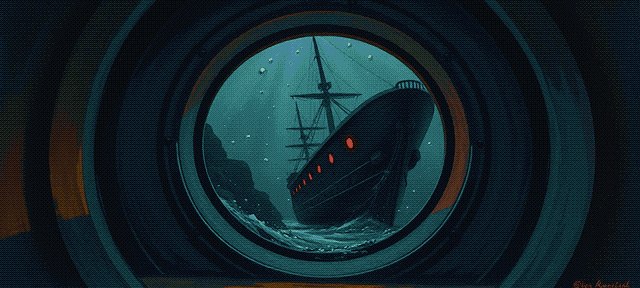
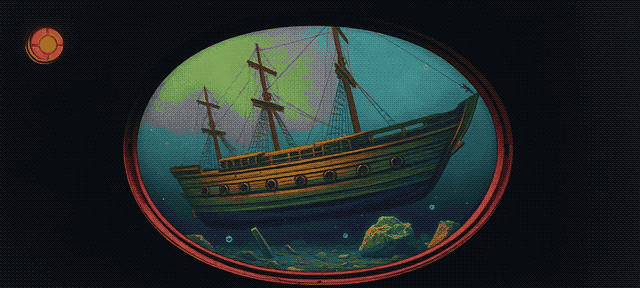
TTLUTS-21: Art reruns: library, South Pole, sinking warship
From fixed prompts (seed 7), installed from kept originals with hotspots
realigned:
- ch05 library: closer to Verne (frosted globes, central table, only
  small windows at the back).
- ch16 Pole: no flag before Nemo plants it; a tall bare rock for the noon
  reading.
- ch20 warship: an 1860s wooden two-decker going down past the window,
  instead of a modern steamer.
The whale rerun still looks like orcas, so ch15 keeps its image (noted
on the card).

diff --git a/art/SOURCES.md b/art/SOURCES.md
@@ -13,7 +13,6 @@ Every game image, the generated image it came from, its model and seed. Prompts 
 | art/locations/ch03_night_sea.png | ch03nightsea-flux-1868-e13d.png | flux | 1868 | 2026-11-21 |
 | art/locations/ch03_hull.png | ch03hull-flux-1868-3220.png | flux | 1868 | 2026-11-21 |
 | art/locations/ch04_cell.png | ch04cell-flux-1868-9142.png | flux | 1868 | 2026-11-21 |
-| art/locations/ch05_library.png | ch05library-flux-1868-d5da.png | flux | 1868 | 2026-11-21 |
 | art/locations/ch05_corridor.png | ch05corridor-flux-1868-5b88.png | flux | 1868 | 2026-11-21 |
 | art/locations/ch05_armory.png | ch05armory-flux-1868-f5ff.png | flux | 1868 | 2026-11-21 |
 | art/portraits/aronnax.png | portraitaronnax-flux-1868-117b.png | flux | 1868 | 2026-11-21 |
@@ -38,14 +37,15 @@ Every game image, the generated image it came from, its model and seed. Prompts 
 | art/locations/ch13_vigo.png | ch13vigo-flux-1868-8ad4.png | flux | 1868 | 2026-11-21 |
 | art/locations/ch14_atlantis.png | ch14atlantis-flux-1868-4fb0.png | flux | 1868 | 2026-11-22 |
 | art/locations/ch15_whales.png | ch15whales-flux-1868-9c98.png | flux | 1868 | 2026-11-22 |
-| art/locations/ch16_pole.png | ch16pole-flux-1868-3bcc.png | flux | 1868 | 2026-11-22 |
 | art/locations/ch17_trapped.png | ch17trapped-flux-1868-db52.png | flux | 1868 | 2026-11-22 |
 | art/locations/ch17_ice_tunnel.png | ch17icetunnel-flux-1868-3720.png | flux | 1868 | 2026-11-22 |
 | art/locations/ch18_platform_squid.png | ch18platformsqui-flux-1868-dfb8.png | flux | 1868 | 2026-11-22 |
 | art/locations/ch19_storm.png | ch19storm-flux-1868-a5b5.png | flux | 1868 | 2026-11-22 |
 | art/locations/ch19_vengeur.png | ch19vengeur-flux-1868-4078.png | flux | 1868 | 2026-11-22 |
-| art/locations/ch20_salon_dark.png | ch20salondark-flux-1868-89d2.png | flux | 1868 | 2026-11-22 |
 | art/locations/ch20_nemo_room.png | ch20nemoroom-flux-1868-c862.png | flux | 1868 | 2026-11-22 |
 | art/locations/ch21_cabins_night.png | ch21cabinsnight-flux-1868-79b6.png | flux | 1868 | 2026-11-22 |
 | art/locations/ch21_skiff.png | ch21skiff-flux-1868-6ec6.png | flux | 1868 | 2026-11-22 |
 | art/locations/ch21_lofoten.png | ch21lofoten-flux-1868-55c2.png | flux | 1868 | 2026-11-22 |
+| art/locations/ch05_library.png | ch05library-flux-7-e7a0.png | flux | 7 | 2026-11-22 |
+| art/locations/ch16_pole.png | ch16pole-flux-7-53c6.png | flux | 7 | 2026-11-22 |
+| art/locations/ch20_salon_dark.png | ch20salondark-flux-7-7d89.png | flux | 7 | 2026-11-22 |
